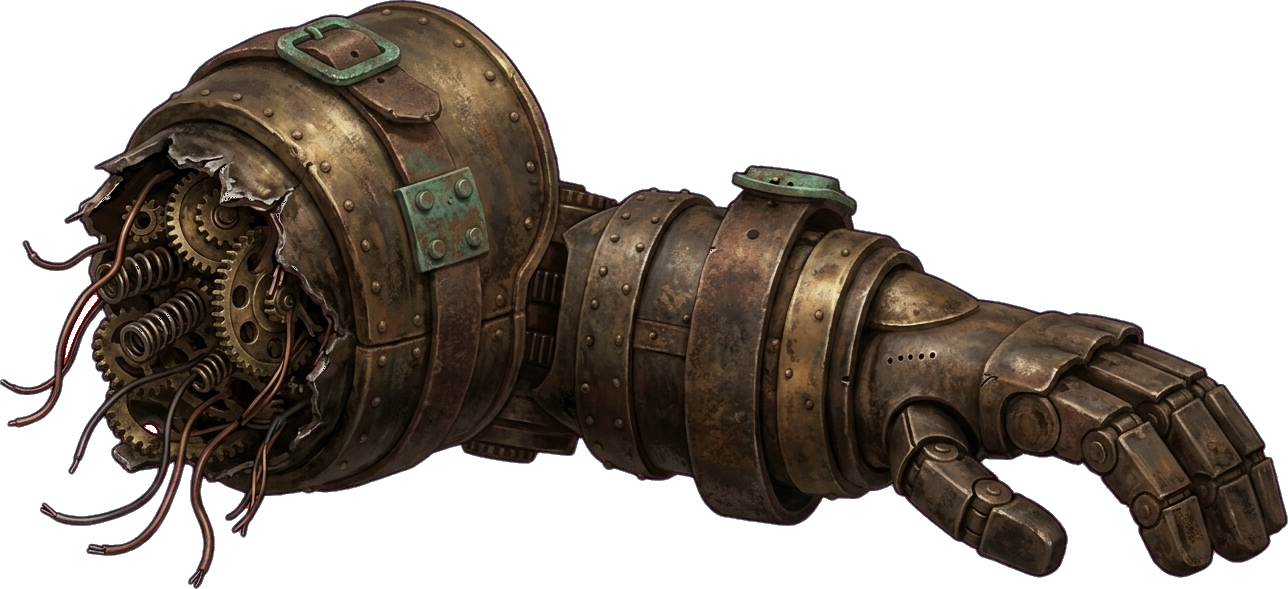
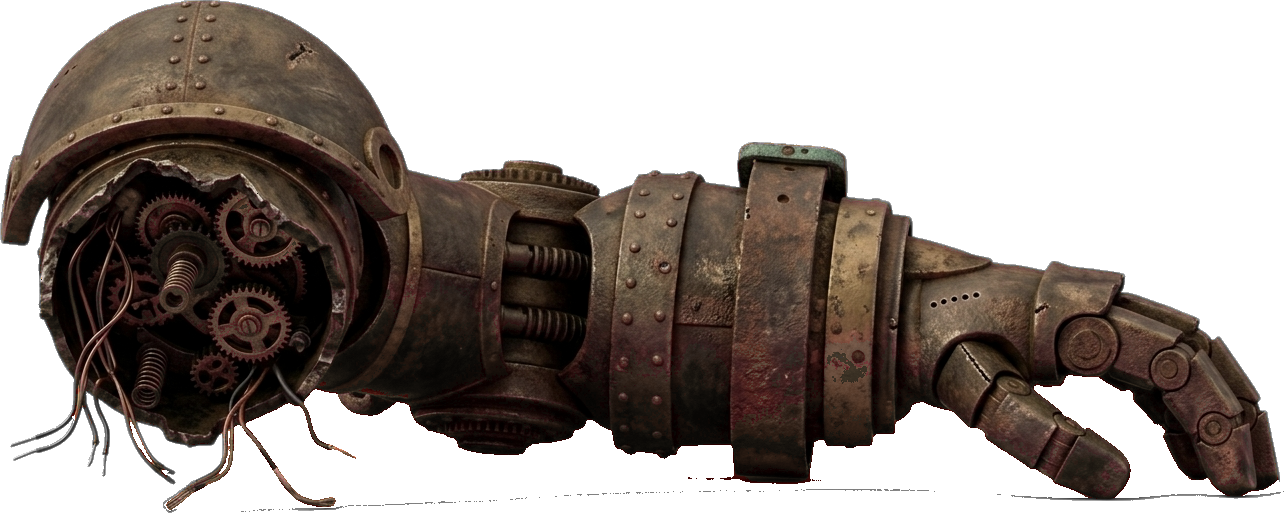
## Arm Drop Perfected — Exact-Mirror Arm + Smooth Fall (verified in-scene) - The mounted arm is now literally his own right arm mirrored (cut from the robot sprite itself) — identical plating, thumb inward, no redundant pauldron, tucked under his own shoulder plate - The fall is a smooth two-frame h

diff --git a/frontend/src/components/scenes/AmbianceScene.jsx b/frontend/src/components/scenes/AmbianceScene.jsx
@@ -1045,12 +1045,24 @@ export function AmbianceScene({ theme, cfg, heistEpoch = 0 }) {
           )}
         </div>
       ))}
-      {/* THE ARM DROP: his left arm starts mounted on the socket, tears loose
-          in a spark burst, slams the floor (thump + dust), rests a few
-          minutes, then gets quietly re-mounted. Box sits at the REST spot;
-          the attached pose is a translate+rotate about the torn shoulder. */}
+      {/* THE ARM DROP — MOUNTED POSE: the intact arm hangs on the socket
+          (clean pauldron, no torn parts). Shudders while the weld fails,
+          then detaches: quick tilt + drop + fade as the falling frame takes
+          over below for a smooth two-frame hand-off. */}
+      {cfg.golemLeft && armPh <= 2 && (
+        <div className="absolute z-[3] hidden sm:block" data-testid="steam-arm-mounted" style={{
+          left: "calc(50% - 17.7vh)", bottom: "17.5vh", width: "9.1vh", aspectRatio: "86 / 299",
+          transformOrigin: "50% 6%",
+          animation: armPh === 1 ? "ffArmShudder 0.28s linear infinite" : armPh === 2 ? "ffArmDetach 0.4s ease-in forwards" : undefined,
+        }}>
+          <img src="/steam-arm-mounted.png?v=517" alt="" className="absolute inset-0 h-full w-full object-contain" style={{ filter: "drop-shadow(0 4px 7px rgba(0,0,0,0.55)) brightness(0.92)" }} />
+        </div>
+      )}
+      {/* THE ARM DROP — FALLING/FLOOR: the torn arm tumbles in from the
+          socket and lands where it rests. Box sits at the REST spot; the
+          pre-fall pose is a translate+rotate about the torn shoulder. */}
       {cfg.golemLeft && (
-        <div className="absolute bottom-[0.6vh] left-[calc(50%-36.5vh)] z-[3] hidden sm:block" style={{ width: "29vh", aspectRatio: "1288 / 589" }} data-testid="steam-arm-floor">
+        <div className="absolute bottom-[0.6vh] left-[calc(50%-36.5vh)] z-[3] hidden sm:block" style={{ width: "29vh", aspectRatio: "1287 / 513" }} data-testid="steam-arm-floor">
           {/* ground shadow appears once the arm is down */}
           <div className="absolute left-1/2 -translate-x-1/2" style={{ bottom: "-0.4vh", width: "86%", height: "2vh", background: "radial-gradient(ellipse, rgba(0,0,0,0.6), rgba(0,0,0,0) 68%)", opacity: armPh >= 3 && armPh < 5 ? 1 : 0, transition: "opacity 0.45s ease" }} />
           {/* LANDING DUST: kicks out low when the arm slams down */}
@@ -1063,13 +1075,13 @@ export function AmbianceScene({ theme, cfg, heistEpoch = 0 }) {
           )}
           <div className="absolute inset-0" data-testid="arm-drop-body" style={{
             transformOrigin: "12% 45%",
-            transform: armPh <= 1 ? "translate(19.8vh, -40.2vh) rotate(78deg)" : "translate(0, 0) rotate(0deg)",
-            transition: armPh === 2 ? "transform 0.85s cubic-bezier(0.5, 0, 0.9, 0.6)" : armPh === 5 ? "opacity 0.8s ease" : armPh === 0 ? "opacity 0.6s ease" : "none",
-            opacity: armPh === 5 ? 0 : 1,
+            transform: armPh <= 1 ? "translate(19.8vh, -41.1vh) rotate(60deg)" : "translate(0, 0) rotate(0deg)",
+            transition: armPh === 2 ? "transform 0.85s cubic-bezier(0.5, 0, 0.9, 0.6), opacity 0.25s ease" : armPh === 5 ? "opacity 0.8s ease" : armPh === 0 ? "none" : "none",
+            opacity: armPh <= 1 || armPh === 5 ? 0 : 1,
             animation: armPh === 3 ? "ffArmSettle 0.55s cubic-bezier(0.3,1.4,0.5,1)" : undefined,
           }}>
             {/* his LEFT arm — palm down, thumb toward the viewer (fingers point right) */}
-            <img src="/steam-arm-left.png?v=514" alt="" className="absolute inset-0 h-full w-full object-contain" style={{ filter: "drop-shadow(0 3px 5px rgba(0,0,0,0.5)) brightness(0.92)" }} />
+            <img src="/steam-arm-left.png?v=517" alt="" className="absolute inset-0 h-full w-full object-contain" style={{ filter: "drop-shadow(0 3px 5px rgba(0,0,0,0.5)) brightness(0.92)" }} />
             {/* BUST-OFF SPARKS at the torn shoulder end: a hot burst right as it
                 lands, then the slow just-ripped-loose loop while it rests */}
             {armPh === 3 && (

diff --git a/frontend/public/index.html b/frontend/public/index.html
@@ -60,7 +60,7 @@
         <title>Fork·Fate — Restaurant Roulette</title>
         <script>window.addEventListener("error",function(e){if(e.error instanceof DOMException&&e.error.name==="DataCloneError"&&e.message&&e.message.includes("PerformanceServerTiming")){e.stopImmediatePropagation();e.preventDefault()}},true);</script>
         <script>(function(){try{if('serviceWorker' in navigator){window.addEventListener('load',function(){navigator.serviceWorker.register('/service-worker.js',{scope:'/'}).catch(function(){});});}}catch(e){}})();</script>
-        <script>(function(){try{var FF_BUILD="2026.06-514";var prev=localStorage.getItem("ff_build");if(prev!==FF_BUILD){localStorage.setItem("ff_build",FF_BUILD);if(window.caches&&caches.keys){caches.keys().then(function(keys){keys.forEach(function(k){caches.delete(k);});});}if(prev&&!sessionStorage.getItem("ff_build_reloaded")){sessionStorage.setItem("ff_build_reloaded","1");location.reload(true);}}}catch(e){}})();</script>
+        <script>(function(){try{var FF_BUILD="2026.06-517";var prev=localStorage.getItem("ff_build");if(prev!==FF_BUILD){localStorage.setItem("ff_build",FF_BUILD);if(window.caches&&caches.keys){caches.keys().then(function(keys){keys.forEach(function(k){caches.delete(k);});});}if(prev&&!sessionStorage.getItem("ff_build_reloaded")){sessionStorage.setItem("ff_build_reloaded","1");location.reload(true);}}}catch(e){}})();</script>
         <script src="https://assets.emergent.sh/scripts/emergent-main.js"></script>
         <!-- Google Analytics 4 -->
         <script async src="https://www.googletagmanager.com/gtag/js?id=G-4E739B8J0H"></script>

diff --git a/frontend/src/index.css b/frontend/src/index.css
@@ -1136,6 +1136,19 @@ body {
   55%{ transform: translate(0, 0.15vh) rotate(0.5deg); }
   100%{ transform: translate(0, 0) rotate(0deg); }
 }
+/* mounted arm shuddering while the shoulder weld fails */
+@keyframes ffArmShudder{
+  0%,100%{ transform: rotate(0deg); }
+  25%{ transform: rotate(-1.3deg) translateY(0.15vh); }
+  60%{ transform: rotate(1.1deg); }
+}
+/* the detach beat: tilts off the socket, drops and fades as the falling
+   frame takes over */
+@keyframes ffArmDetach{
+  0%{ transform: rotate(0deg) translateY(0); opacity: 1; }
+  55%{ opacity: 1; }
+  100%{ transform: rotate(-16deg) translateY(7vh); opacity: 0; }
+}
 /* Santa's sleigh climbing diagonally up across the winter sky (angle matches the
    nose-up sleigh), then looping */
 @keyframes ffSantaFly{

diff --git a/scripts/gen_steam_arm_mounted.py b/scripts/gen_steam_arm_mounted.py
@@ -1,6 +1,6 @@
-"""Regenerate the floor arm to MATCH the rack robot's own arm style, by
-passing the robot sprite as an image reference to Nano Banana. Output is
-mirrored in post so it reads as his LEFT arm (thumb toward viewer)."""
+"""Generate the arm in its MOUNTED pose: intact, vertical, hanging at rest —
+clean shoulder pauldron at top (no torn gears facing forward), matching the
+rack robot's own arm style via image reference."""
 import asyncio
 import base64
 import os
@@ -13,25 +13,24 @@ from PIL import Image, ImageEnhance, ImageFilter
 load_dotenv("/app/backend/.env")
 
 PROMPT = (
-    "Look at the attached steampunk robot game sprite. Paint HIS OTHER ARM as "
-    "a separate detached prop, in EXACTLY the same art style, colours and "
-    "construction as the arm he already has: the same chunky segmented "
-    "riveted plating, the same dark aged bronze with rust and grime, the "
-    "same verdigris green patina straps, the same rounded shoulder pauldron "
-    "and thick cylindrical forearm and blocky segmented fingers. CRITICAL: "
-    "IDENTICAL PROPORTIONS to his existing arm — the forearm gauntlet just "
-    "as THICK, WIDE and bulky, the same massive industrial heft, never "
-    "slimmer or more elegant. "
-    "The detached arm lies flat on the ground, seen exactly from the side at "
-    "ground level, lying horizontally: the HAND is on the LEFT of the frame "
-    "resting palm-down with fingers slightly curled and the THUMB clearly "
-    "visible on the near side facing the viewer; the SHOULDER END is on the "
-    "RIGHT of the frame, torn open with exposed gears, springs and loose "
-    "dangling copper wires spilling out where it ripped off the robot. "
-    "The arm is shown COMPLETELY ALONE, centered, filling most of the frame, "
-    "WIDE LANDSCAPE composition, on a PERFECTLY FLAT SOLID PURE MAGENTA "
-    "background (#FF00FF) with no gradient, no tray, no table, no floor "
-    "surface, no shadow cast on the background, no text, no watermark, "
+    "Look at the attached steampunk robot game sprite. Paint HIS OTHER ARM "
+    "as a separate standalone sprite in EXACTLY the same art style, colours "
+    "and construction as the arm he already has: same chunky segmented "
+    "riveted plating, same dark aged bronze with rust and grime, same "
+    "verdigris green patina straps, same rounded shoulder pauldron, thick "
+    "cylindrical forearm and blocky segmented fingers. CRITICAL: the new arm "
+    "must have IDENTICAL PROPORTIONS to his existing arm — the forearm "
+    "gauntlet just as THICK, WIDE and bulky, the same massive industrial "
+    "heft, never slimmer or more elegant. "
+    "This time paint the arm INTACT and WHOLE, in the exact hanging-at-rest "
+    "pose it would have while MOUNTED on his shoulder: perfectly VERTICAL, "
+    "seen straight from the front, the rounded shoulder pauldron CLEAN and "
+    "COMPLETE at the TOP (no torn parts, no exposed gears, no loose wires "
+    "anywhere), upper arm and forearm hanging straight down, relaxed "
+    "half-curled fingers at the BOTTOM. TALL PORTRAIT composition, the arm "
+    "shown COMPLETELY ALONE, centered, filling most of the frame height, on "
+    "a PERFECTLY FLAT SOLID PURE MAGENTA background (#FF00FF) with no "
+    "gradient, no shadow on the background, no floor, no text, no watermark, "
     "no border."
 )
 
@@ -67,17 +66,13 @@ def key_and_grade(src, out):
                 continue
             if is_bg((r, g, b), 60):
                 px[x, y] = (r, g, b, 0)
-            elif al < 255 and r > g + 45 and b > g + 30:
-                m = (r + g + b) // 3
-                px[x, y] = (m, m, m, al)
+            elif b > g + 25 and r > g + 25:
+                px[x, y] = (r, g, max(0, int(g * 0.75)), al)  # magenta despill
             elif r > 225 and g > 225 and b > 225:
                 px[x, y] = (40, 32, 22, al)
     bbox = im.getbbox()
     if bbox:
         im = im.crop(bbox)
-    # MIRROR: hand-left + near thumb = right arm; the flip makes it his LEFT
-    im = im.transpose(Image.FLIP_LEFT_RIGHT)
-    # gentle sink into the room light (style already matches the robot)
     alpha = im.split()[3]
     rgb = im.convert("RGB")
     rgb = ImageEnhance.Color(rgb).enhance(0.92)
@@ -85,7 +80,7 @@ def key_and_grade(src, out):
     im = rgb.convert("RGBA")
     im.putalpha(alpha)
     im.save(out)
-    print(f"keyed+flipped -> {out} ({im.size})")
+    print(f"keyed -> {out} ({im.size})")
 
 
 async def main():
@@ -96,7 +91,7 @@ async def main():
     with open("/app/frontend/public/steam-robot-rack.png", "rb") as f:
         robot_b64 = base64.b64encode(f.read()).decode()
     chat = (
-        LlmChat(api_key=api_key, session_id="steam-arm-match", system_message="You are an expert steampunk prop illustrator producing game asset art.")
+        LlmChat(api_key=api_key, session_id="steam-arm-mounted", system_message="You are an expert steampunk prop illustrator producing game asset art.")
         .with_model("gemini", "gemini-3.1-flash-image-preview")
         .with_params(modalities=["image", "text"])
     )
@@ -106,11 +101,11 @@ async def main():
         print(f"no image returned ({(text or '')[:120]})", file=sys.stderr)
         sys.exit(1)
     data = base64.b64decode(images[0]["data"])
-    raw = "/app/scripts/steam-arm-match-raw.png"
+    raw = "/app/scripts/steam-arm-mounted-raw.png"
     with open(raw, "wb") as f:
         f.write(data)
     print(f"saved -> {raw} ({len(data)//1024}KB)")
-    key_and_grade(raw, "/app/frontend/public/steam-arm-left.png")
+    key_and_grade(raw, "/app/frontend/public/steam-arm-mounted.png")
 
 
 if __name__ == "__main__":

diff --git a/memory/CHANGELOG.md b/memory/CHANGELOG.md
@@ -1012,3 +1012,22 @@ ROADMAP idea (user): future categories beyond food/drinks/bars/desserts -> antiq
 - New dims 1288x589 (aspect 2.187): box 29vh wide left calc(50%-36.5vh),
   origin 12%/45%, attached transform translate(19.8vh,-40.2vh) rotate(78deg).
 - Verified attached + fallen in-scene; ?v=514.
+
+## 2026-02 (fork) — Exact-mirror mounted arm + smooth two-frame fall (FF_BUILD 515-517)
+- MOUNTED sprite is now the robot's OWN right arm cropped from
+  steam-robot-rack.png (region x64-152, y264-564, piecewise right boundary
+  136/139/149 to exclude torso, fragments erased, top cut soft-faded 12px)
+  then mirror-flipped -> perfect 1:1 left arm, thumb inward, NO pauldron
+  (user: robot's own shoulder plate covers the join). 86x299 px.
+- Mounted box: left calc(50%-17.7vh), bottom 17.5vh, w 9.1vh, z-3 (z-2
+  hid it behind the rack frame post's opaque pixels — learned the hard way).
+- Fall is now a TWO-FRAME hand-off: mounted arm shudders (ffArmShudder)
+  during weld-fail ph1, detaches at ph2 (ffArmDetach 0.4s: tilt -16deg,
+  drop 7vh, fade) while the torn floor arm fades in mid-tumble
+  (pre-fall pose translate(19.8vh,-41.1vh) rotate(60deg), opacity 0->1
+  0.25s) and falls 0.85s to rest. Much smoother than single-sprite swing.
+- Floor arm regenerated thicker (user: gauntlet too thin) 1287x513; then
+  magenta shadow blob killed (min(r,b)>g+45), red fringe knocked back, and
+  finally a HUE-ROTATE pass (285-358deg sat>0.12 -> hue 22deg rust) to
+  remove the raspberry-pink cast (48752 px). Sprites at ?v=517/516.
+- ffArmShudder + ffArmDetach keyframes added to index.css.
